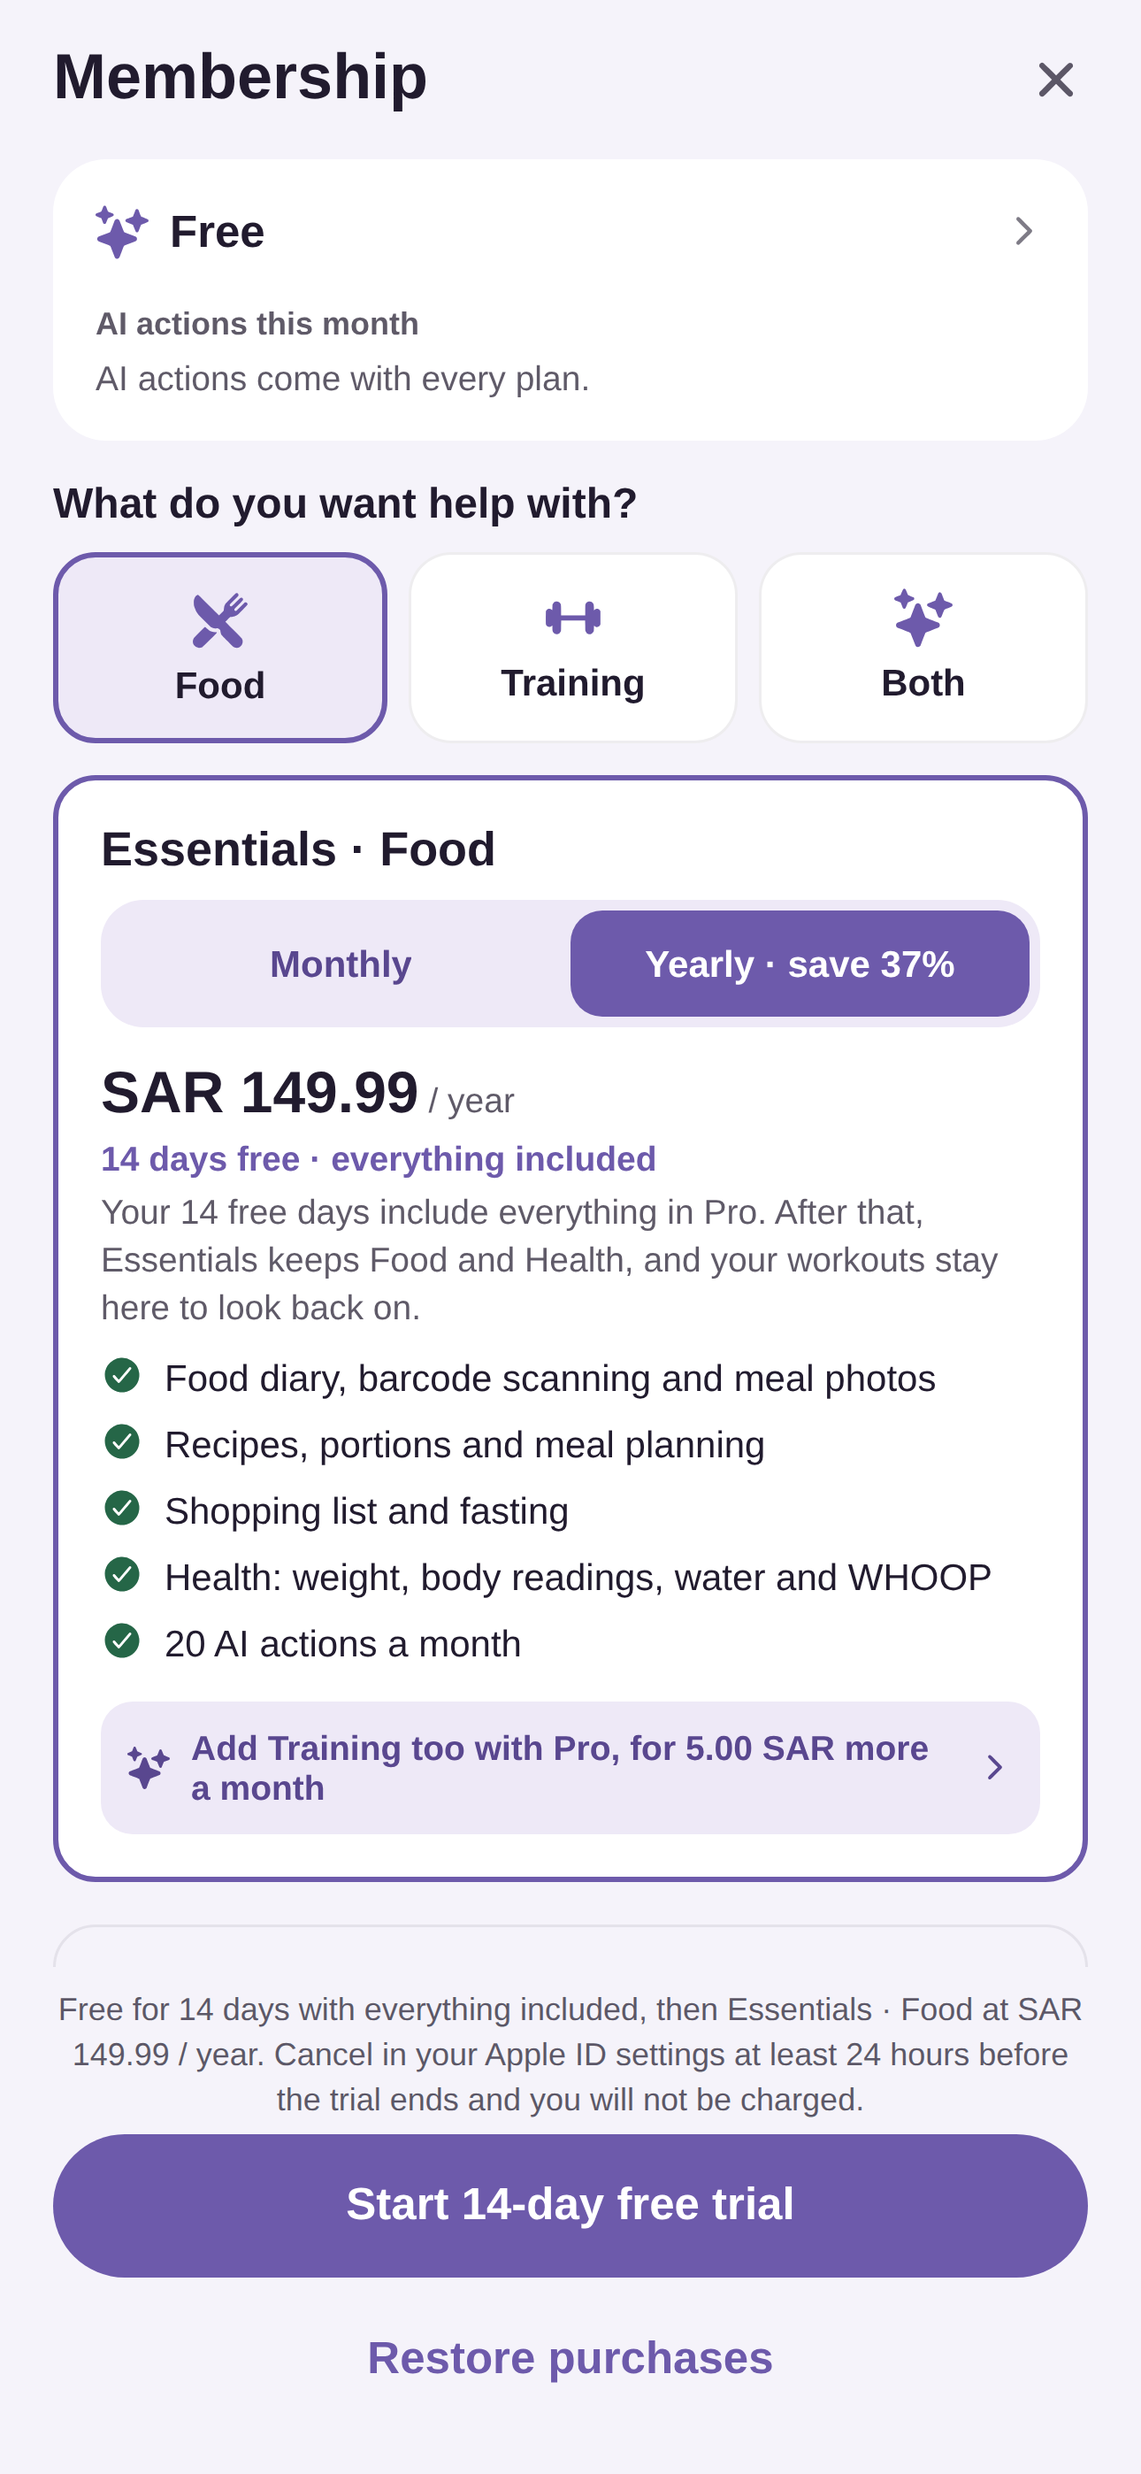
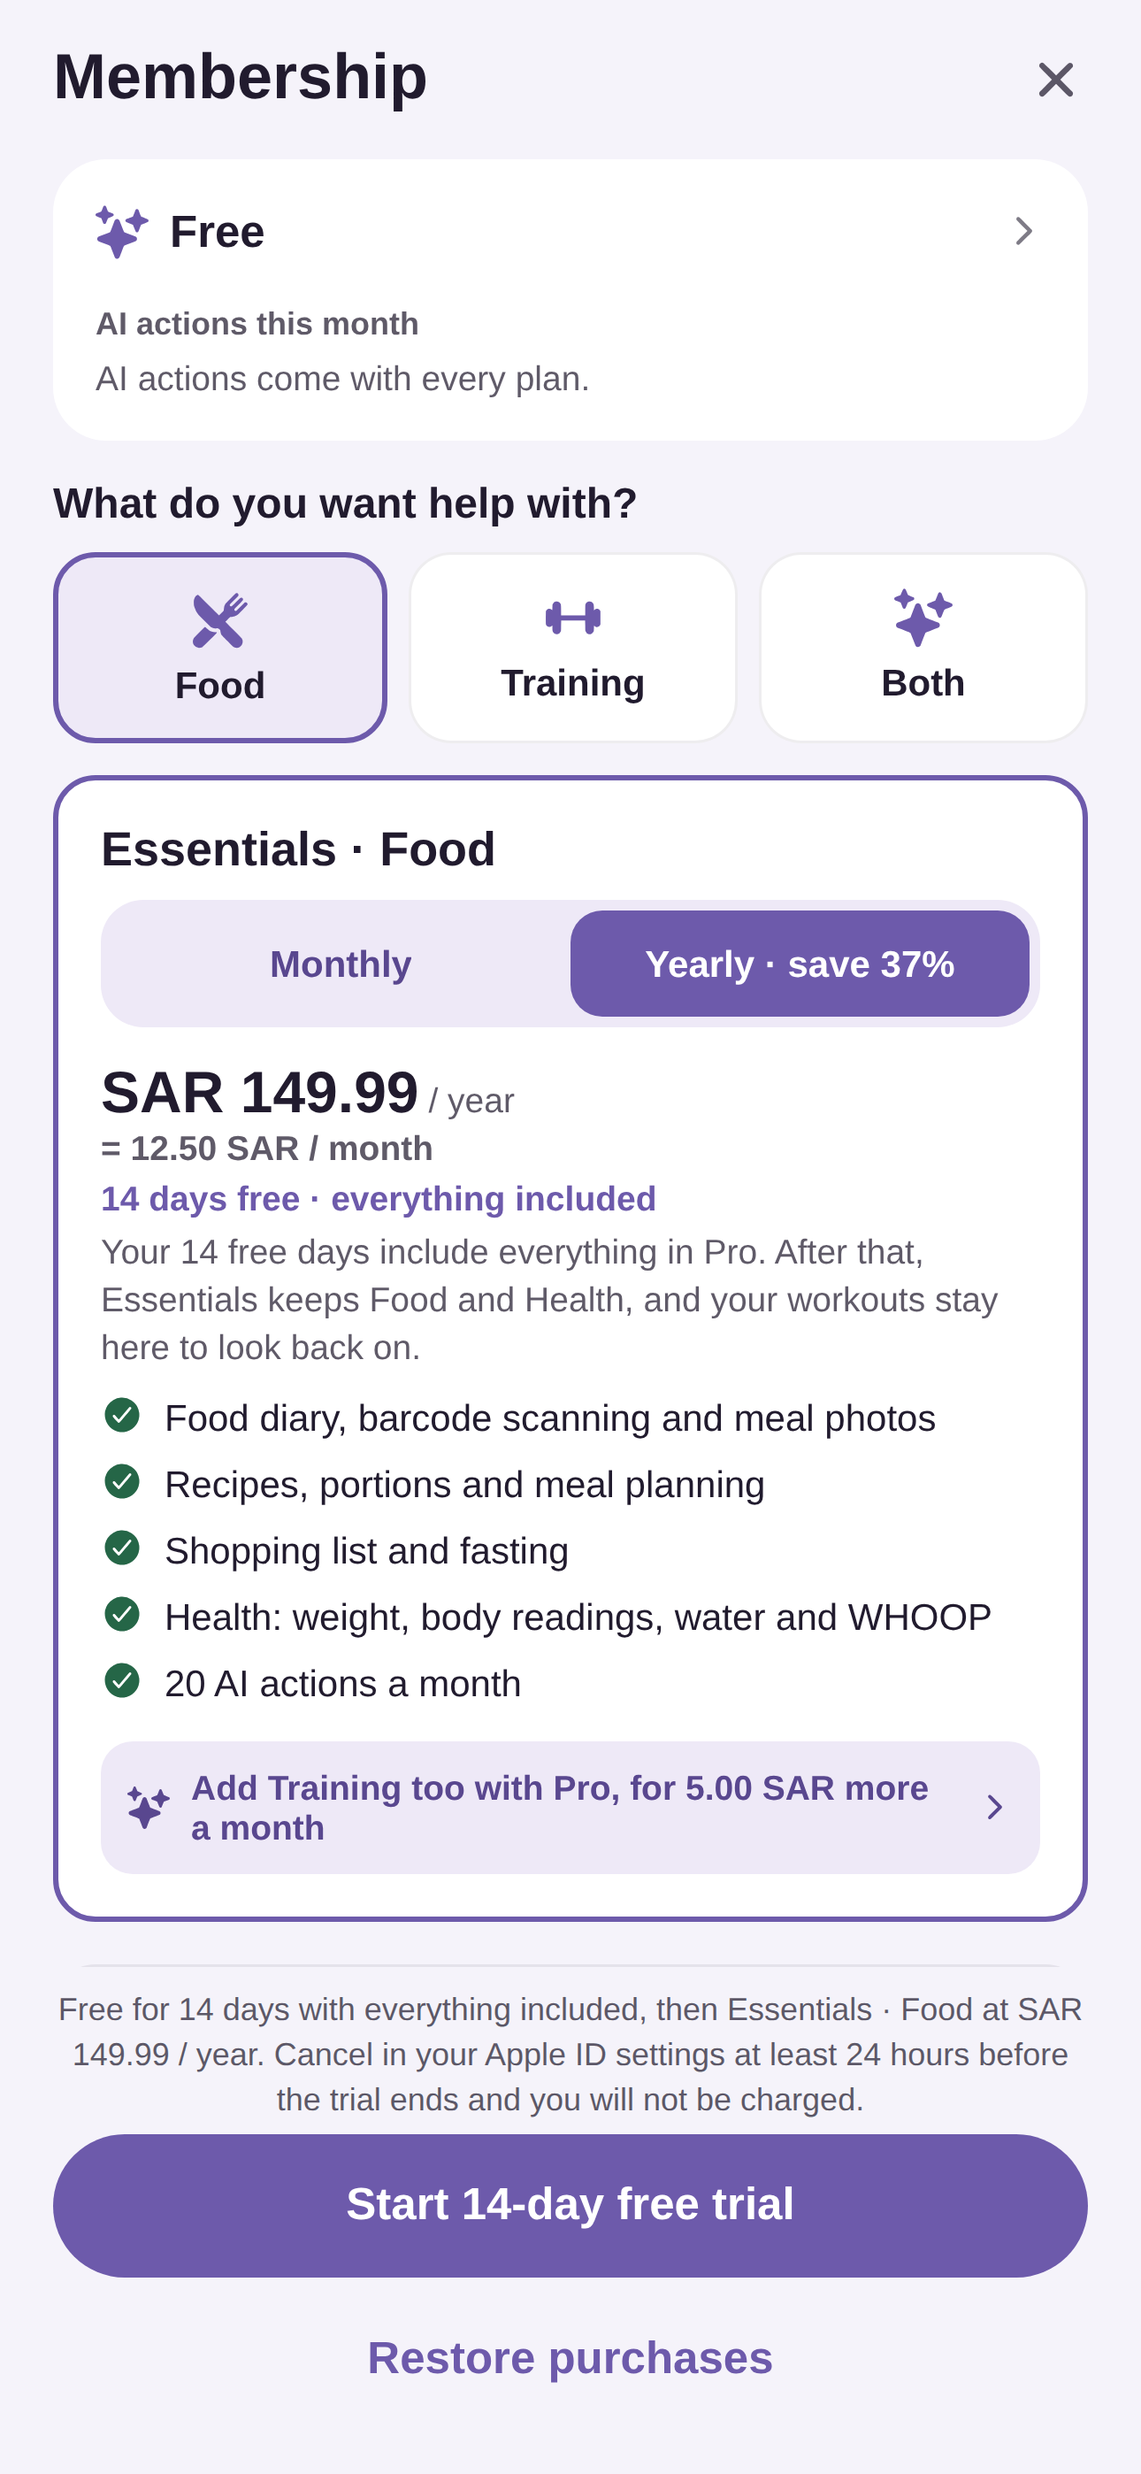
Close the tester's report: tab titles, grams, protein, coach, zero counts, yearly per month
From the Android retest report's acceptance checks:
- Tab headers (Food, Overview, Training): the title came second to the
  AI Support pill and Food's date and was cut in Arabic and at larger
  text. Widths are measured; when the full name wouldn't fit, the AI
  pill keeps its icon and drops its label. Text is not shrunk.
- Overview's protein tile uses the localized grams label (غ) and says
  "protein goal reached" when the target is met, instead of "0 g left".
- The AI coach's context marks nutrients whose day total is only a known
  minimum, per day and per item, and the prompt says to answer "at
  least"/"up to" for those, never an exact remainder.
- Zero forms for set counts (EN "No sets", AR "بلا مجموعات"); 0, 1, 2, 3
  and 11 now read correctly in both languages.
- A replacement preview refuses to apply if the slot it opened on has
  changed underneath (My plan), as it already did for a program change.
- The paywall shows the yearly price per month ("= 12.50 SAR / month");
  the two yearly review screenshots are refreshed.
- promo-test reads pg's Pool when loaded as an ES module.

Claude-Session: https://claude.ai/code/session_01N7tt7EnFiXoEjrgtkKqMir

Changed region(s): [[0.031, 0.4356, 0.9612, 0.7779]]

diff --git a/src/components/brand-header.tsx b/src/components/brand-header.tsx
@@ -4,7 +4,7 @@ import { LinearGradient } from 'expo-linear-gradient';
 import { useRouter } from 'expo-router';
 import { useState, type ReactNode } from 'react';
 import { useTranslation } from 'react-i18next';
-import { Pressable, StyleSheet, Text, View } from 'react-native';
+import { type LayoutChangeEvent, Pressable, StyleSheet, Text, View } from 'react-native';
 import { useSafeAreaInsets } from 'react-native-safe-area-context';
 
 import { GlassBacking } from '@/components/glass';
@@ -94,8 +94,33 @@ export function BrandRow({
   const theme = useTheme();
   const router = useRouter();
   const size = compact ? 30 : 36;
+  // The screen name comes first. When it, the AI Support label and the rest
+  // don't fit on one row (Arabic, larger text, Food's date pill), the AI
+  // pill drops its label and keeps its icon, rather than the name being cut.
+  // Widths are measured, never guessed per language.
+  const [w, setW] = useState({ row: 0, title: 0, pill: 0, extra: 0 });
+  const measure = (k: keyof typeof w) => (e: LayoutChangeEvent) => {
+    const v = Math.ceil(e.nativeEvent.layout.width);
+    setW((cur) => (cur[k] === v ? cur : { ...cur, [k]: v }));
+  };
+  const lead = onBack || showLogo ? size + Spacing.sm : 0;
+  // Row gaps: after the logo, either side of the spacer, before the avatar (and after Food's pill).
+  const fixed = lead + size + 3 * Spacing.sm + (extra ? w.extra + Spacing.sm : 0);
+  const aiIconOnly = right === 'ai' && w.row > 0 && w.title + w.pill + fixed > w.row;
   return (
-    <View style={[styles.row, compact && { minHeight: 40 }]}>
+    <View style={[styles.row, compact && { minHeight: 40 }]} onLayout={measure('row')}>
+      {/* Invisible copies, only to know how wide the full name and label are. */}
+      <View style={styles.measure} pointerEvents="none" accessibilityElementsHidden importantForAccessibility="no-hide-descendants">
+        <Text maxFontSizeMultiplier={1.3} style={[styles.brand, compact && { fontSize: 18 }]} onLayout={measure('title')}>
+          {title}
+        </Text>
+        {right === 'ai' && (
+          <View style={[styles.pill, { minHeight: size }]} onLayout={measure('pill')}>
+            <Icon name="sparkles" size={15} color="transparent" />
+            <Text maxFontSizeMultiplier={1.3} style={styles.pillText}>{t('tabs.ai')}</Text>
+          </View>
+        )}
+      </View>
       {onBack && (
         <Pressable
           onPress={onBack}
@@ -116,22 +141,29 @@ export function BrandRow({
           accessibilityLabel="Calgym"
         />
       )}
-      <Text maxFontSizeMultiplier={1.3} style={[styles.brand, compact && { fontSize: 18 }, { color: theme.onGradient }]} numberOfLines={1}>
+      <Text maxFontSizeMultiplier={1.3} style={[styles.brand, compact && { fontSize: 18 }, { color: theme.onGradient, flexShrink: 1 }]} numberOfLines={1}>
         {title}
       </Text>
       <View style={{ flex: 1 }} />
-      {extra}
+      {extra ? <View onLayout={measure('extra')}>{extra}</View> : null}
       {right === 'ai' ? (
         <View ref={aiRef} collapsable={false}>
           <Pressable
             onPress={() => router.push('/coach')}
             accessibilityRole="button"
             accessibilityLabel={t('tabs.ai')}
-            style={({ pressed }) => [styles.pill, { minHeight: size }, pressed && { opacity: 0.8 }]}
+            style={({ pressed }) => [
+              styles.pill,
+              { minHeight: size },
+              aiIconOnly && { width: size, paddingHorizontal: 0, justifyContent: 'center' },
+              pressed && { opacity: 0.8 },
+            ]}
           >
             <GlassBacking radius={size / 2} fallbackColor={BACKING} tint={GLASS_TINT} />
             <Icon name="sparkles" size={15} color={theme.onGradient} />
-            <Text maxFontSizeMultiplier={1.3} style={[styles.pillText, { color: theme.onGradient }]}>{t('tabs.ai')}</Text>
+            {!aiIconOnly && (
+              <Text maxFontSizeMultiplier={1.3} style={[styles.pillText, { color: theme.onGradient }]}>{t('tabs.ai')}</Text>
+            )}
           </Pressable>
         </View>
       ) : right === 'none' ? null : (
@@ -301,6 +333,7 @@ export function PageHeader({
 
 const styles = StyleSheet.create({
   brandBack: { alignItems: 'center', justifyContent: 'center' },
+  measure: { position: 'absolute', opacity: 0, flexDirection: 'row', start: 0, top: 0 },
   band: { paddingHorizontal: Spacing.page, paddingBottom: Spacing.md },
   row: { flexDirection: 'row', alignItems: 'center', gap: Spacing.sm, minHeight: TOUCH },
   logo: { width: 36, height: 36, borderRadius: 9 },

diff --git a/src/lib/coach-context.ts b/src/lib/coach-context.ts
@@ -1,3 +1,4 @@
+import { itemUnknownNutrients } from './recipes';
 import { fetchWhoopSummary } from './api';
 import { exerciseName, findExercise } from './exercises';
 import { ageFrom } from './tdee';
@@ -38,6 +39,8 @@ export interface CoachContext {
     burned: number;
     waterMl: number;
     workouts: string[];
+    /** Nutrients whose day total is only a known minimum: some entry's value is unknown. */
+    incomplete?: string[];
   }[];
   streakDays: number;
   workoutStreakDays: number;
@@ -78,7 +81,7 @@ export interface CoachContext {
     id: string;
     date: string;
     mealType: string;
-    items: { index: number; name: string; calories: number; proteinG: number; carbsG: number; fatG: number; portion?: string }[];
+    items: { index: number; name: string; calories: number; proteinG: number; carbsG: number; fatG: number; portion?: string; unknown?: string[] }[];
   }[];
 }
 
@@ -139,6 +142,7 @@ export async function buildCoachContext(lang: Language, dayCount = 7, focus?: Co
       burned: share.training ? actualBurnedForDay(s.workouts, s.whoopBurnByDay, s.whoopWorkoutsByDay, d) : 0,
       waterMl: share.food ? waterForDay(s.water, d) : 0,
       workouts: share.training ? names.slice(0, 8) : [],
+      ...(share.food && (totals.incomplete ?? []).length > 0 ? { incomplete: totals.incomplete } : {}),
     });
   }
 
@@ -197,6 +201,7 @@ export async function buildCoachContext(lang: Language, dayCount = 7, focus?: Co
             carbsG: Math.round(it.carbsG),
             fatG: Math.round(it.fatG),
             ...(it.portion ? { portion: it.portion } : {}),
+            ...(itemUnknownNutrients(it).length > 0 ? { unknown: itemUnknownNutrients(it) } : {}),
           })),
         }))
     : undefined;

diff --git a/src/lib/locales/ar.ts b/src/lib/locales/ar.ts
@@ -535,6 +535,7 @@ export const ar: TranslationSchema = {
     daysTrainedCount_many: '{{count}} يوم تمرين',
     daysTrainedCount_other: '{{count}} يوم تمرين',
     setsCount: '{{count}} مجموعات',
+    setsCount_zero: 'بلا مجموعات',
     setsCount_one: 'مجموعة واحدة',
     setsCount_two: 'مجموعتان',
     setsCount_few: '{{count}} مجموعات',
@@ -665,6 +666,7 @@ export const ar: TranslationSchema = {
   today: {
     tileExercisesDone: 'تمارين مكتملة',
     tileMinutes: 'دقيقة تقريبًا',
+    tileProteinReached: 'وصلت لهدف البروتين ✓',
     tileProteinLeftAtMost: 'بروتين متبقٍ كحد أقصى · بعض القيم غير معروفة',
     tileProteinLeft: 'بروتين متبقٍ اليوم',
     workout: 'التمرين',
@@ -795,6 +797,7 @@ export const ar: TranslationSchema = {
     repsCount_many: '{{count}} تكراراً',
     repsCount_other: '{{count}} تكرار',
     setsOnly: '{{count}} مجموعات',
+    setsOnly_zero: 'بلا مجموعات',
     setsOnly_one: 'مجموعة واحدة',
     setsOnly_two: 'مجموعتان',
     setsOnly_few: '{{count}} مجموعات',
@@ -1311,6 +1314,7 @@ export const ar: TranslationSchema = {
     yearlySave: 'سنوي · وفّر {{percent}}٪',
     perMonthStore: '/ شهرياً',
     perYearStore: '/ سنوياً',
+    yearlyPerMonth: '= {{price}} شهرياً',
     subscribe: 'اشترك · {{price}}',
     startTrial: 'ابدأ تجربة مجانية لمدة {{days}} يوماً',
     trialBadge: '{{days}} يوماً مجاناً · كل المزايا',

diff --git a/src/components/plan-picker.tsx b/src/components/plan-picker.tsx
@@ -53,6 +53,10 @@ export function PlanPicker({ offer }: { offer: Offer }) {
   const { plans, choice, setChoice, tier, priceFor, trialDaysFor, hasAnnual, period, setPeriod } = offer;
 
   const storePrice = priceFor(tier);
+  // A yearly price also said per month ("= 12.50 SAR / month"), from the
+  // store's own figure, so the saving is concrete next to the monthly plan.
+  const yearlyPkg = plans && period === 'annual' ? plans[tier].annual : undefined;
+  const perMonth = yearlyPkg ? `${(yearlyPkg.product.price / 12).toFixed(2)} ${yearlyPkg.product.currencyCode}` : null;
   const trial = trialDaysFor(tier);
   const monthly = tier === 'pro' ? fb.pro : fb.essentials;
   const yearly = tier === 'pro' ? fb.proYearly : fb.essentialsYearly;
@@ -130,6 +134,7 @@ export function PlanPicker({ offer }: { offer: Offer }) {
             </>
           )}
         </Text>
+        {perMonth ? <Text style={{ color: theme.textSecondary, fontSize: 13, fontWeight: '600' }}>{t('upgrade.yearlyPerMonth', { price: perMonth })}</Text> : null}
         {trial ? <Text style={{ color: theme.primary, fontWeight: '800', fontSize: 13, marginTop: 4 }}>{t('upgrade.trialBadge', { days: trial })}</Text> : null}
         {trial && choice !== 'both' ? (
           <Text style={{ color: theme.textSecondary, fontSize: 13, lineHeight: 18, marginTop: 4 }}>{t(`plans.trialAllNote.${choice}`, { days: trial })}</Text>

diff --git a/src/app/plan-meal.tsx b/src/app/plan-meal.tsx
@@ -78,8 +78,10 @@ export default function PlanMeal() {
     const planned = plannedMealFor(activeProgram?.mealPlan, d, sl, mealPlanSwaps, mealPlanRecipes, recipes, activeProgram?.id);
     return nearestServingStep(planned?.items.length === 1 ? planned.items[0].recipeServings : undefined);
   });
-  // The programme this preview was built against (S14/AT15).
+  // The programme this preview was built against (S14/AT15), and what the
+  // opened slot held — a change to either underneath makes the preview stale.
   const [programAtOpen] = useState(activeProgram?.id);
+  const [slotAtOpen] = useState(() => (params.day && params.slot ? JSON.stringify(mealPlanRecipes[params.day]?.[params.slot as MealType] ?? null) : null));
 
   if (!recipe) return null;
 
@@ -126,7 +128,9 @@ export default function PlanMeal() {
           : '';
 
   const apply = () => {
-    if (activeProgram?.id !== programAtOpen) {
+    const openedSlotNow =
+      params.day && params.slot ? JSON.stringify(useAppStore.getState().mealPlanRecipes[params.day]?.[params.slot as MealType] ?? null) : null;
+    if (activeProgram?.id !== programAtOpen || openedSlotNow !== slotAtOpen) {
       Alert.alert(t('planMeal.staleTitle'), t('planMeal.staleBody'), [{ text: t('common.close'), onPress: () => router.back() }]);
       return;
     }

diff --git a/src/lib/locales/en.ts b/src/lib/locales/en.ts
@@ -533,6 +533,7 @@ export const en = {
     daysTrainedCount_many: '{{count}} days trained',
     daysTrainedCount_other: '{{count}} days trained',
     setsCount: '{{count}} sets',
+    setsCount_zero: 'no sets',
     setsCount_one: '{{count}} set',
     setsCount_two: '{{count}} sets',
     setsCount_few: '{{count}} sets',
@@ -665,6 +666,7 @@ export const en = {
   today: {
     tileExercisesDone: 'exercises done',
     tileMinutes: 'minutes (approx.)',
+    tileProteinReached: 'protein goal reached ✓',
     tileProteinLeftAtMost: 'protein left at most · some values unknown',
     tileProteinLeft: 'protein left today',
     workout: 'Workout',
@@ -795,6 +797,7 @@ export const en = {
     repsCount_many: '{{count}} reps',
     repsCount_other: '{{count}} reps',
     setsOnly: '{{count}} sets',
+    setsOnly_zero: 'No sets',
     setsOnly_one: '{{count}} set',
     setsOnly_two: '{{count}} sets',
     setsOnly_few: '{{count}} sets',
@@ -1311,6 +1314,7 @@ export const en = {
     yearlySave: 'Yearly · save {{percent}}%',
     perMonthStore: '/ month',
     perYearStore: '/ year',
+    yearlyPerMonth: '= {{price}} / month',
     subscribe: 'Subscribe · {{price}}',
     startTrial: 'Start {{days}}-day free trial',
     trialBadge: '{{days}} days free · everything included',

diff --git a/src/app/(tabs)/index.tsx b/src/app/(tabs)/index.tsx
@@ -438,8 +438,18 @@ export default function Overview() {
                   right below, and protein is what a meal choice most moves. */}
               <StatTile
                 icon="nutrition-outline"
-                value={`${proteinIncomplete && proteinLeft > 0 ? '≤' : ''}${num(proteinLeft)} g`}
-                label={proteinIncomplete && proteinLeft > 0 ? t('today.tileProteinLeftAtMost') : t('today.tileProteinLeft')}
+                value={
+                  proteinLeft > 0
+                    ? `${proteinIncomplete ? '≤' : ''}${num(proteinLeft)} ${t('common.grams')}`
+                    : `${proteinIncomplete ? '≥' : ''}${num(Math.round(totals.proteinG))} ${t('common.grams')}`
+                }
+                label={
+                  proteinLeft <= 0
+                    ? t('today.tileProteinReached')
+                    : proteinIncomplete
+                      ? t('today.tileProteinLeftAtMost')
+                      : t('today.tileProteinLeft')
+                }
                 color={theme.protein}
               />
             </Pressable>

diff --git a/server/src/prompts.ts b/server/src/prompts.ts
@@ -314,7 +314,11 @@ One thing does NOT follow the user's message language: if you call propose_weekl
 The user's own Calgym data is below (today first). USE IT: answer questions
 about their calories, macros, training and streaks directly from this data
 instead of asking them to repeat it. Days with 0 calories simply were not
-logged — say so rather than assuming they ate nothing. Refer to concrete
+logged — say so rather than assuming they ate nothing. A day's incomplete
+list names nutrients whose total is only a known minimum (some entries have
+that value unknown, marked unknown on the item): say "at least" for that
+total and "up to" for what is left of the target — never an exact remainder
+from an incomplete total. Refer to concrete
 numbers and compare against their targets when relevant. Each day's
 workouts list names every exercise logged that day with the 24h local time
 it was logged in parentheses, down to the second, e.g. "Bench Press

diff --git a/qa/promo-test.ts b/qa/promo-test.ts
@@ -97,7 +97,9 @@ await initDb();
 for (const c of ['GYMPARTNER', 'HALF50', 'ONEONLY', 'RACE', 'EDITME', 'PLUS30', 'RAMADAN50', 'WEEK7']) await deletePromo(c);
 // Users from earlier runs would carry their gifts into this one.
 {
-  const { Pool } = await import('/home/user/CalApp/server/node_modules/pg/lib/index.js');
+  // pg is CommonJS: from an ES module its exports sit under `default`.
+  const pg = (await import('/home/user/CalApp/server/node_modules/pg/lib/index.js')) as { Pool?: typeof import('pg').Pool; default?: { Pool: typeof import('pg').Pool } };
+  const Pool = (pg.Pool ?? pg.default?.Pool)!;
   const p = new Pool({ connectionString: process.env.DATABASE_URL });
   await p.query(`DELETE FROM app_users WHERE ref LIKE 'user-%' OR ref LIKE 'racer-%' OR ref LIKE 'acct-%'`);
   await p.query(`DELETE FROM ref_links WHERE from_ref LIKE 'user-%'`);
